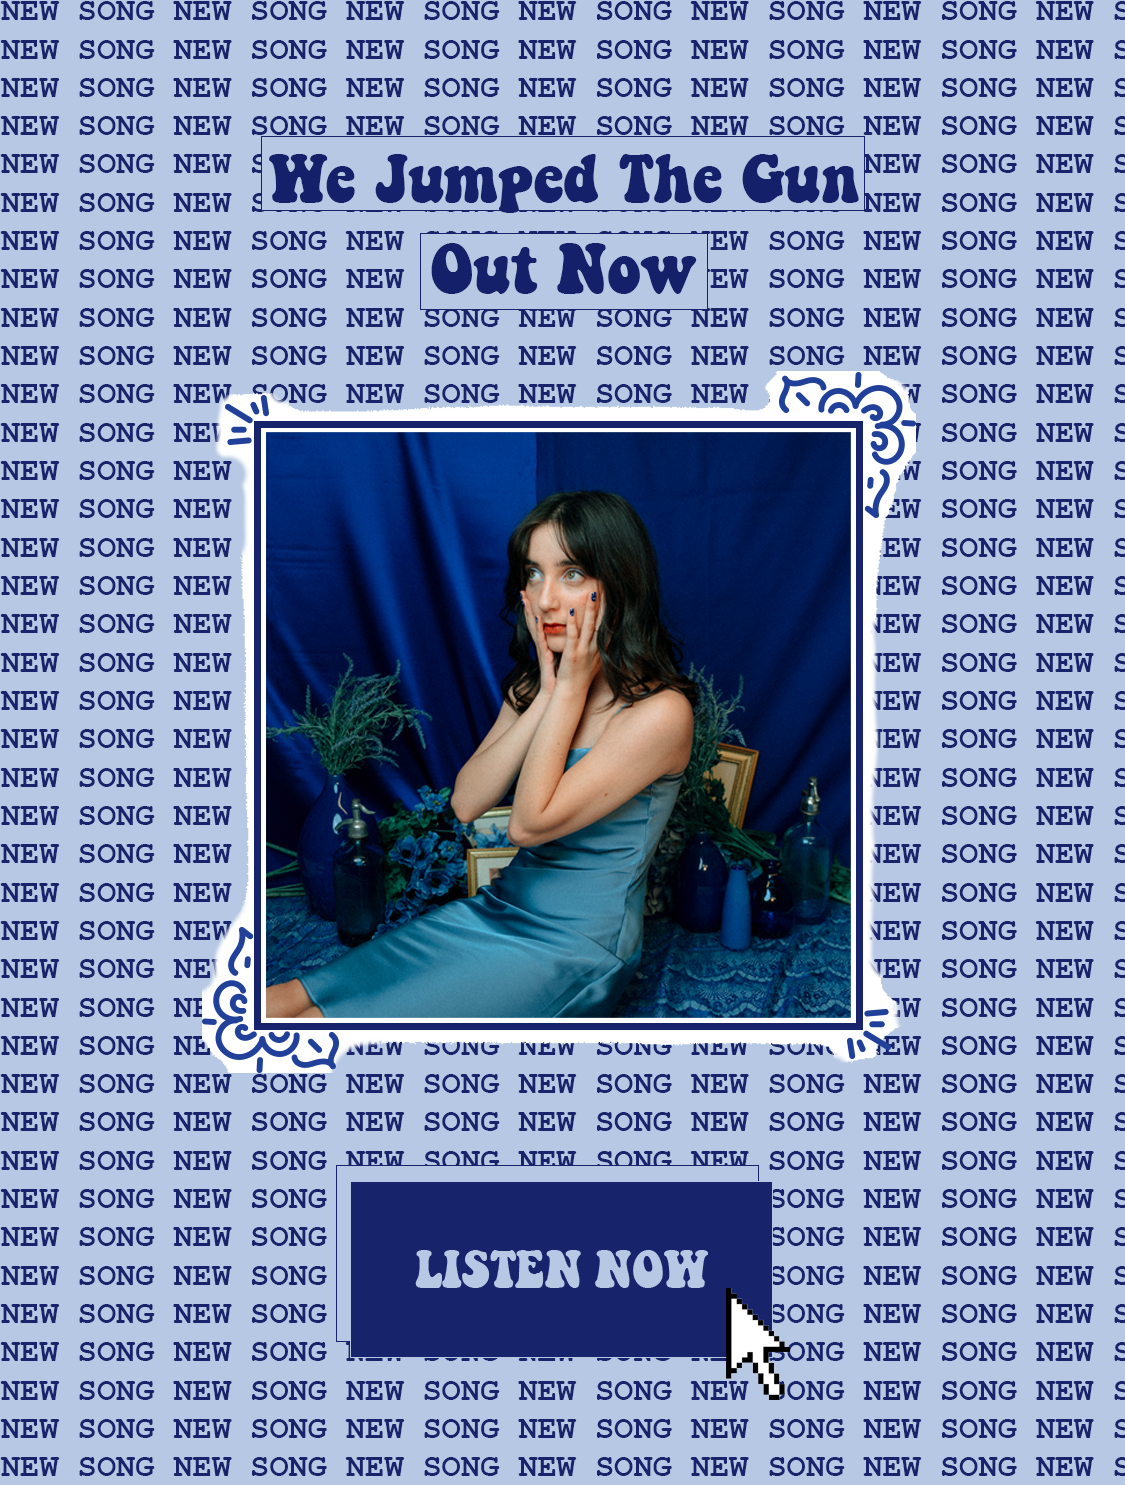
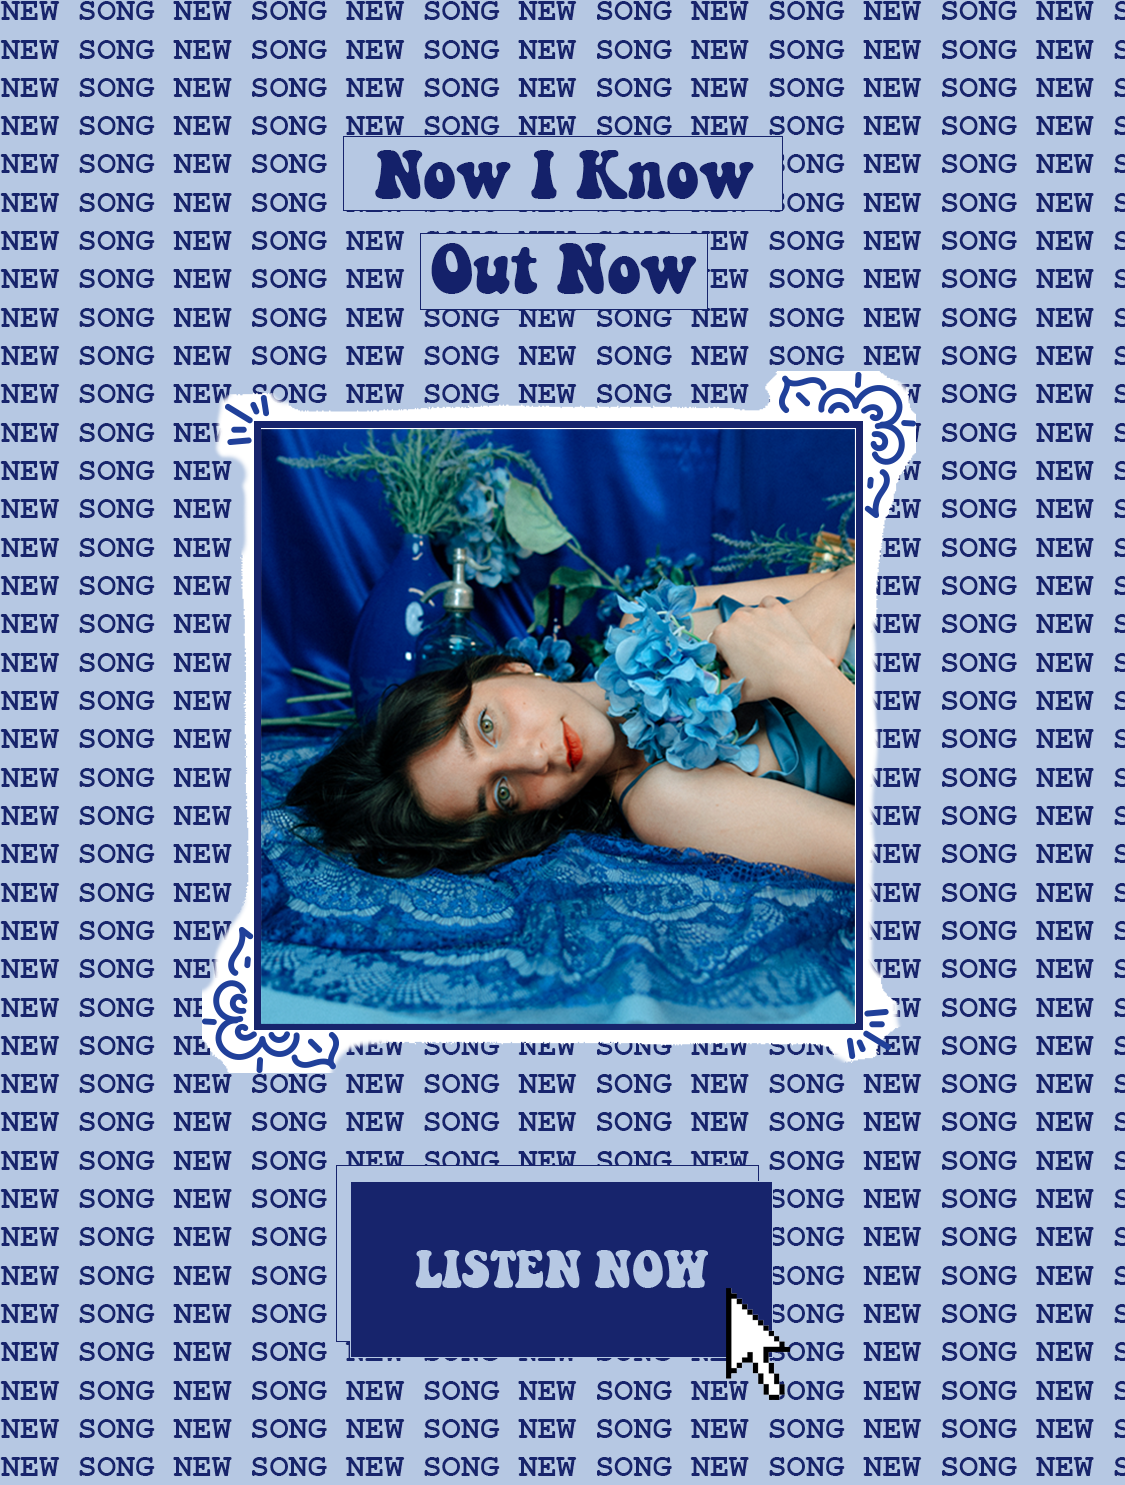
Now I Know !!!

Changed region(s): [[0.2178, 0.2788, 0.7778, 0.7125], [0.2178, 0.0929, 0.7778, 0.1549]]

diff --git a/src/news/News.js b/src/news/News.js
@@ -13,7 +13,7 @@ import W from '../assets/letters/W-G.svg';
 import S from '../assets/letters/S-G.svg';
 
 
-const images = [{image: slide2, mobile: slide2m, link: 'https://dafna.fanlink.to/WeJumpedTheGun'},{image: slide1, mobile: slide1m, link: 'https://shop.dafna.rocks'}];
+const images = [{image: slide2, mobile: slide2m, link: 'https://dafna.fanlink.to/NowIKnow'},{image: slide1, mobile: slide1m, link: 'https://shop.dafna.rocks'}];
 
 const News = () => {
     return(
